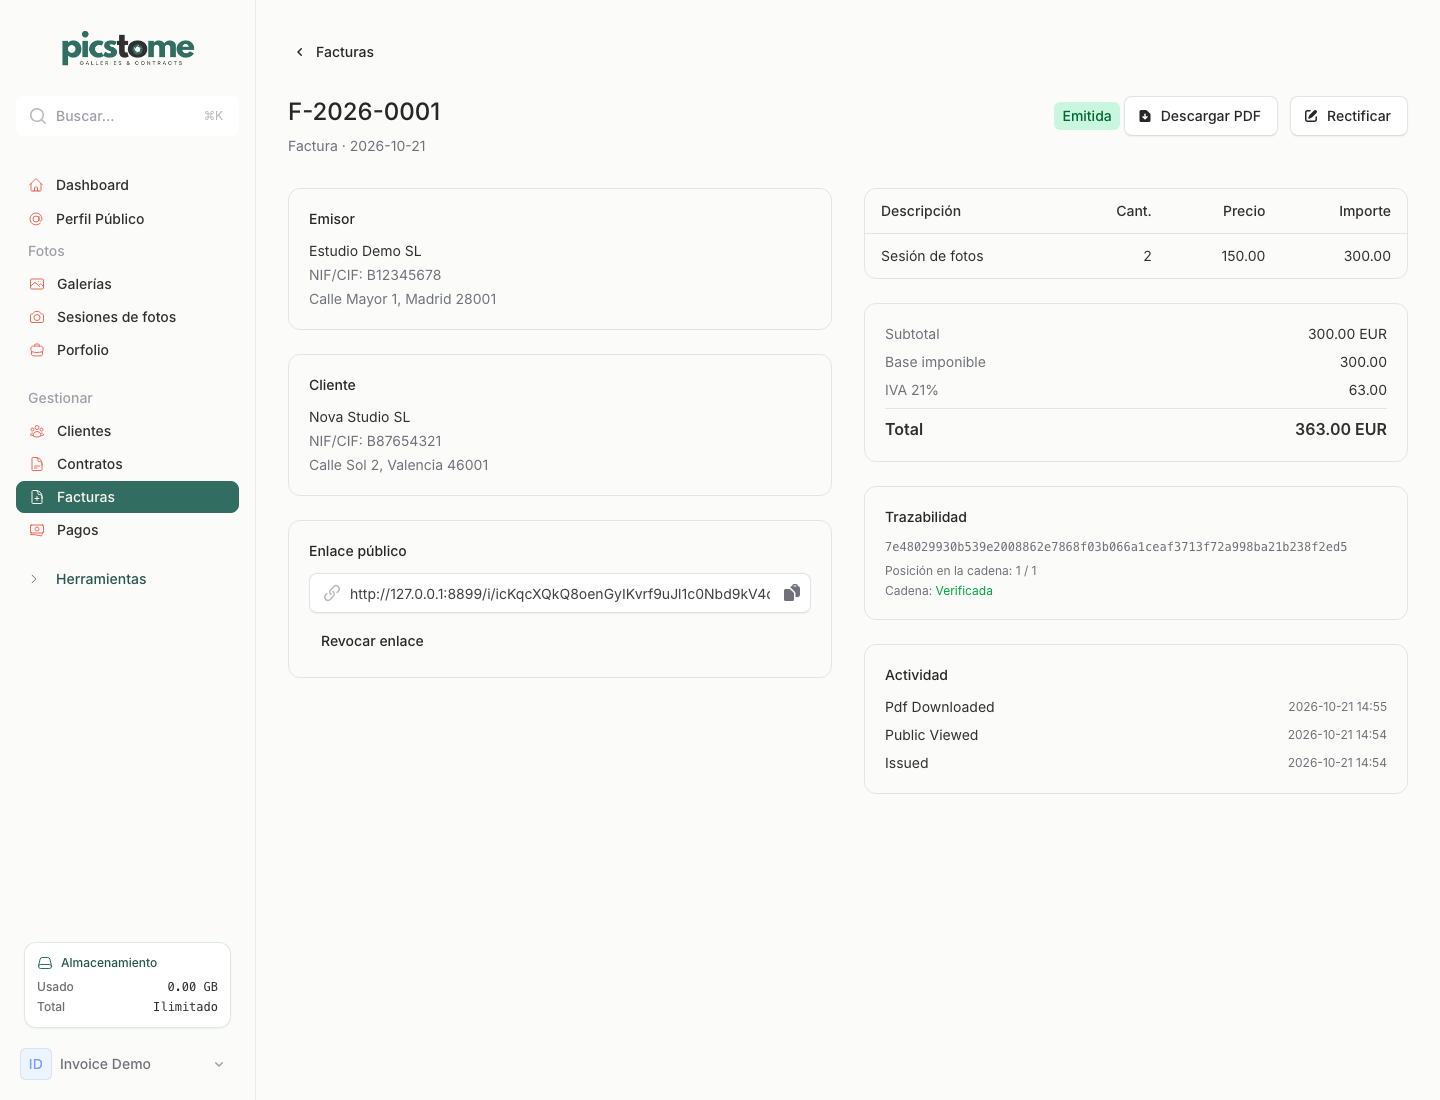
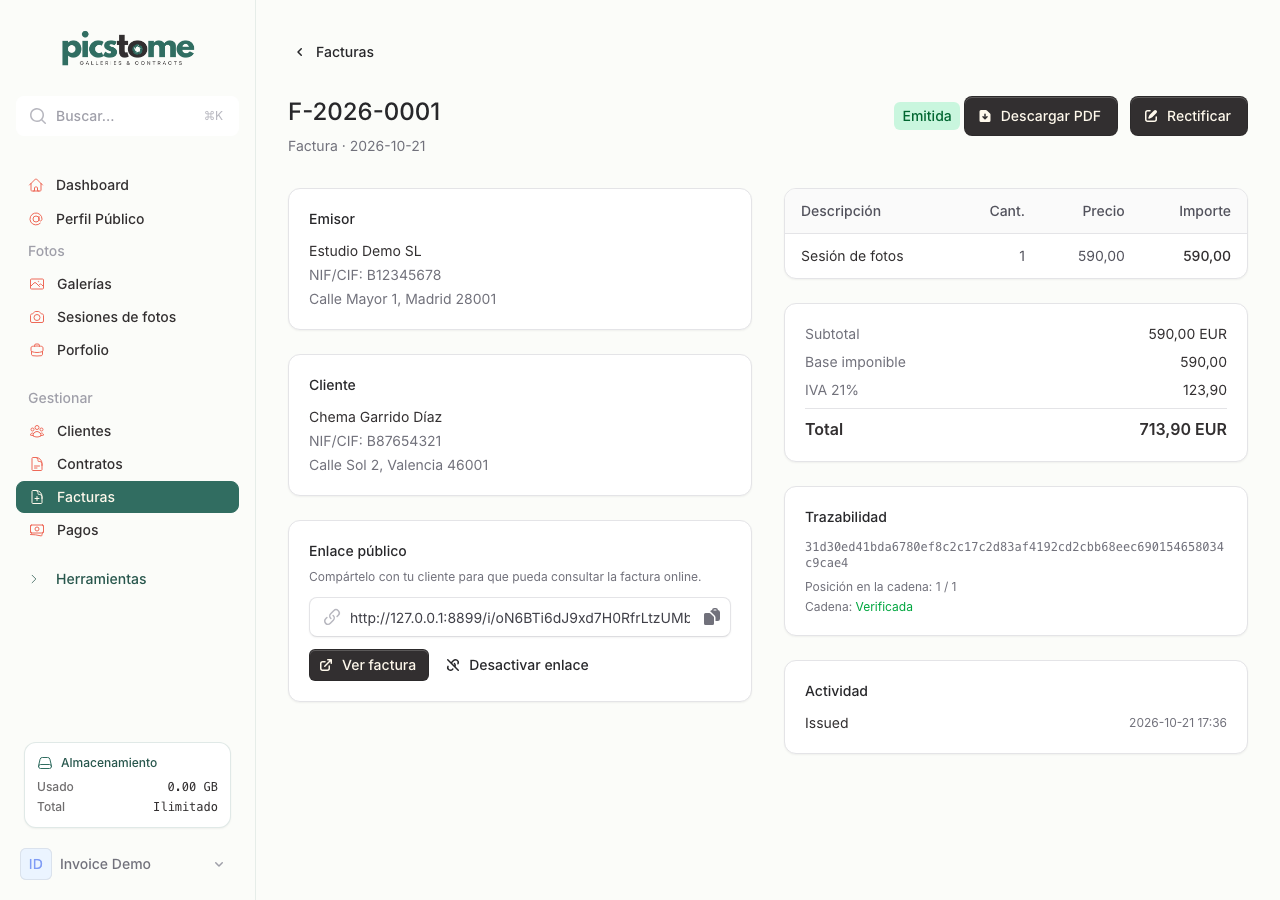
style(invoicing): follow the black and green button convention
- The secondary actions of the invoicing pages use the ink button of the
  app (`btn-ink`) instead of a white outlined one: invoice settings,
  download PDF, rectify, edit, view invoice, generate a new link, save
  draft, add line item and add client.
- The destructive actions (delete the draft) use the brand coral
  (`btn-coral`), like the rest of the application.
- The main action of each screen keeps the green primary button.
- The public link is only shown for issued invoices: a draft has no
  public page, so the section is hidden.

Refs #250

diff --git a/resources/views/pages/invoices/⚡show.blade.php b/resources/views/pages/invoices/⚡show.blade.php
@@ -152,24 +152,24 @@ new class extends Component
             </flux:badge>
 
             @if ($this->invoice->pdf_path)
-                <flux:button variant="outline" icon="document-arrow-down" :href="route('invoices.pdf', $this->invoice)">
+                <flux:button variant="primary" class="btn-ink" icon="document-arrow-down" :href="route('invoices.pdf', $this->invoice)">
                     {{ __('Download PDF') }}
                 </flux:button>
             @endif
 
             @if ($this->invoice->isIssued() && ! $this->invoice->isRectificative())
                 <flux:modal.trigger name="rectify-invoice">
-                    <flux:button variant="outline" icon="pencil-square">{{ __('Rectify') }}</flux:button>
+                    <flux:button variant="primary" class="btn-ink" icon="pencil-square">{{ __('Rectify') }}</flux:button>
                 </flux:modal.trigger>
             @endif
 
             @if ($this->invoice->isDraft())
-                <flux:button variant="outline" icon="pencil-square" :href="route('invoices.create', ['invoice' => $this->invoice->ulid])">
+                <flux:button variant="primary" class="btn-ink" icon="pencil-square" :href="route('invoices.create', ['invoice' => $this->invoice->ulid])">
                     {{ __('Edit') }}
                 </flux:button>
 
                 <flux:modal.trigger name="delete-invoice">
-                    <flux:button variant="danger" icon="trash">{{ __('Delete') }}</flux:button>
+                    <flux:button variant="primary" class="btn-coral" icon="trash">{{ __('Delete') }}</flux:button>
                 </flux:modal.trigger>
             @endif
         </div>
@@ -230,8 +230,9 @@ new class extends Component
                 </dl>
             </div>
 
-            <div class="rounded-xl border border-zinc-200 bg-white p-5 shadow-xs dark:border-white/10 dark:bg-white/5">
-                <flux:heading level="3" size="sm">{{ __('Public link') }}</flux:heading>
+            @if (! $this->invoice->isDraft())
+                <div class="rounded-xl border border-zinc-200 bg-white p-5 shadow-xs dark:border-white/10 dark:bg-white/5">
+                    <flux:heading level="3" size="sm">{{ __('Public link') }}</flux:heading>
                 <flux:subheading size="sm">
                     {{ __('Share it with your client so they can check the invoice online.') }}
                 </flux:subheading>
@@ -248,7 +249,8 @@ new class extends Component
                     <div class="mt-3 flex flex-wrap items-center gap-2">
                         <flux:button
                             size="sm"
-                            variant="outline"
+                            variant="primary"
+                            class="btn-ink"
                             icon="arrow-top-right-on-square"
                             :href="route('invoices.public.show', $this->invoice->public_token)"
                             target="_blank"
@@ -265,7 +267,7 @@ new class extends Component
                     </div>
                 @else
                     <div class="mt-3 flex flex-wrap items-center gap-2">
-                        <flux:button size="sm" variant="outline" icon="link" wire:click="regenerateLink">
+                        <flux:button size="sm" variant="primary" class="btn-ink" icon="link" wire:click="regenerateLink">
                             {{ __('Generate a new link') }}
                         </flux:button>
 
@@ -276,11 +278,12 @@ new class extends Component
                         @endif
                     </div>
 
-                    <flux:text size="sm" class="mt-3 text-zinc-500">
-                        {{ __('The link printed in the PDF cannot be changed: the already delivered documents keep the previous one.') }}
-                    </flux:text>
-                @endif
-            </div>
+                        <flux:text size="sm" class="mt-3 text-zinc-500">
+                            {{ __('The link printed in the PDF cannot be changed: the already delivered documents keep the previous one.') }}
+                        </flux:text>
+                    @endif
+                </div>
+            @endif
         </div>
 
         <div class="space-y-6">

diff --git a/resources/views/pages/invoices/⚡index.blade.php b/resources/views/pages/invoices/⚡index.blade.php
@@ -88,7 +88,7 @@ new class extends Component
             <x-subheading>{{ __('Create invoices and share them with your clients.') }}</x-subheading>
         </div>
         <div class="flex items-center gap-2">
-            <flux:button variant="outline" icon="cog" :href="route('invoices.settings')" wire:navigate>
+            <flux:button variant="primary" class="btn-ink" icon="cog" :href="route('invoices.settings')" wire:navigate>
                 {{ __('Invoice settings') }}
             </flux:button>
 
@@ -228,7 +228,7 @@ new class extends Component
                 {{ __('Create your first invoice and share it with your client.') }}
             </flux:subheading>
             <div class="flex items-center gap-3">
-                <flux:button variant="outline" icon="cog" :href="route('invoices.settings')" wire:navigate>
+                <flux:button variant="primary" class="btn-ink" icon="cog" :href="route('invoices.settings')" wire:navigate>
                     {{ __('Invoice settings') }}
                 </flux:button>
                 <flux:button variant="primary" :href="route('invoices.create')" wire:navigate>
@@ -289,7 +289,7 @@ new class extends Component
 
                 <div class="flex items-center gap-3">
                     @if ($this->setupStep > 1)
-                        <flux:button type="button" variant="outline" wire:click="previousSetupStep">
+                        <flux:button type="button" variant="outline" class="btn-outline-brand" wire:click="previousSetupStep">
                             {{ __('Back') }}
                         </flux:button>
                     @endif

diff --git a/resources/views/pages/invoices/⚡create.blade.php b/resources/views/pages/invoices/⚡create.blade.php
@@ -350,7 +350,7 @@ new class extends Component
                 @endforelse
             </div>
 
-            <flux:button variant="outline" icon="plus" class="mt-6" wire:click="addCustomer">
+            <flux:button variant="primary" class="btn-ink" icon="plus" class="mt-6" wire:click="addCustomer">
                 {{ __('Add a new client') }}
             </flux:button>
         </section>
@@ -388,7 +388,7 @@ new class extends Component
                 @endforeach
             </div>
 
-            <flux:button variant="outline" icon="plus" class="mt-4" wire:click="addLine">
+            <flux:button variant="primary" class="btn-ink" icon="plus" class="mt-4" wire:click="addLine">
                 {{ __('Add line item') }}
             </flux:button>
         </section>
@@ -512,7 +512,7 @@ new class extends Component
         </flux:button>
 
         <div class="flex items-center gap-3">
-            <flux:button variant="outline" wire:click="saveDraft">{{ __('Save draft') }}</flux:button>
+            <flux:button variant="primary" class="btn-ink" wire:click="saveDraft">{{ __('Save draft') }}</flux:button>
 
             @if ($this->step < 3)
                 <flux:button variant="primary" wire:click="nextStep">{{ __('Continue') }}</flux:button>

diff --git a/resources/views/pages/invoices/⚡show.test.php b/resources/views/pages/invoices/⚡show.test.php
@@ -139,6 +139,15 @@ it('deletes a draft invoice', function () {
     expect(Invoice::whereKey($invoice->id)->exists())->toBeFalse();
 });
 
+it('does not show the public link of a draft invoice', function () {
+    $invoice = draftInvoice($this->team);
+
+    Livewire::actingAs($this->user)
+        ->test('pages::invoices.show', ['invoice' => $invoice])
+        ->assertDontSee('Public link')
+        ->assertDontSee('Generate a new link');
+});
+
 it('allows editing a draft invoice', function () {
     $invoice = draftInvoice($this->team);
 

diff --git a/resources/views/pages/invoices/public/⚡show.blade.php b/resources/views/pages/invoices/public/⚡show.blade.php
@@ -198,7 +198,7 @@ new #[Layout('layouts.guest')] class extends Component
             </div>
 
             @if ($this->invoice->pdf_path)
-                <flux:button variant="outline" icon="document-arrow-down" :href="route('invoices.public.pdf', $this->invoice->public_token)">
+                <flux:button variant="primary" icon="document-arrow-down" :href="route('invoices.public.pdf', $this->invoice->public_token)">
                     {{ __('Download PDF') }}
                 </flux:button>
             @endif
